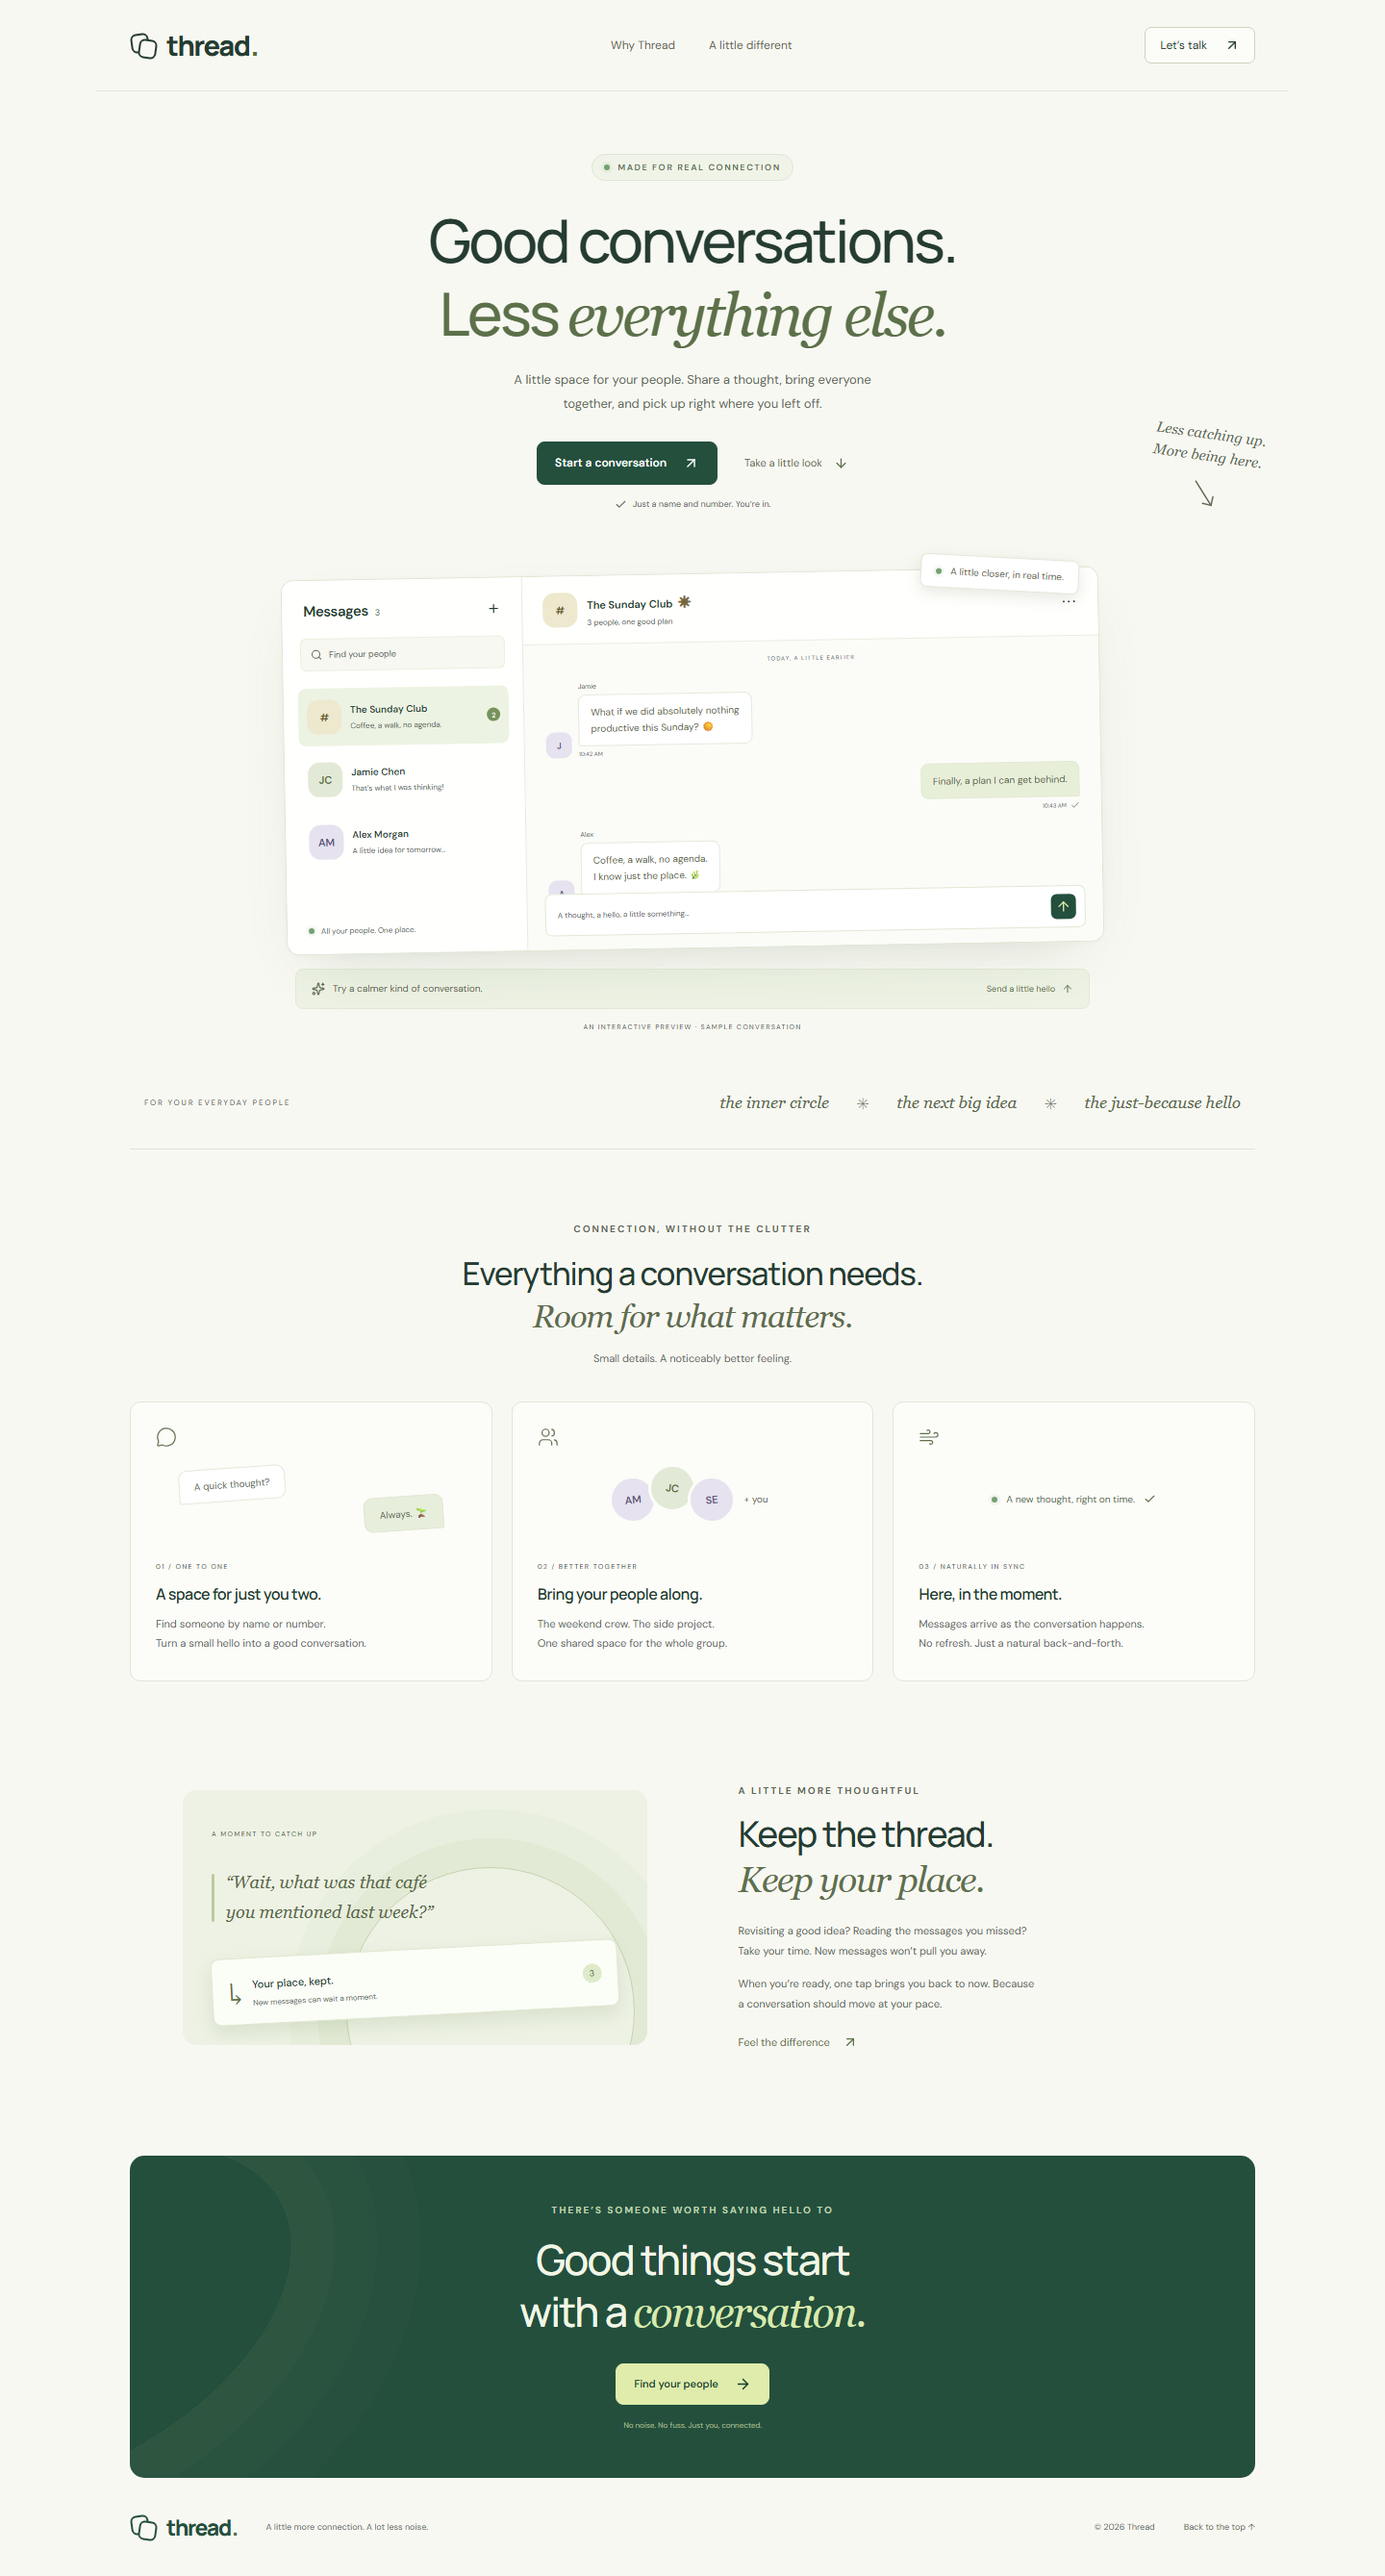
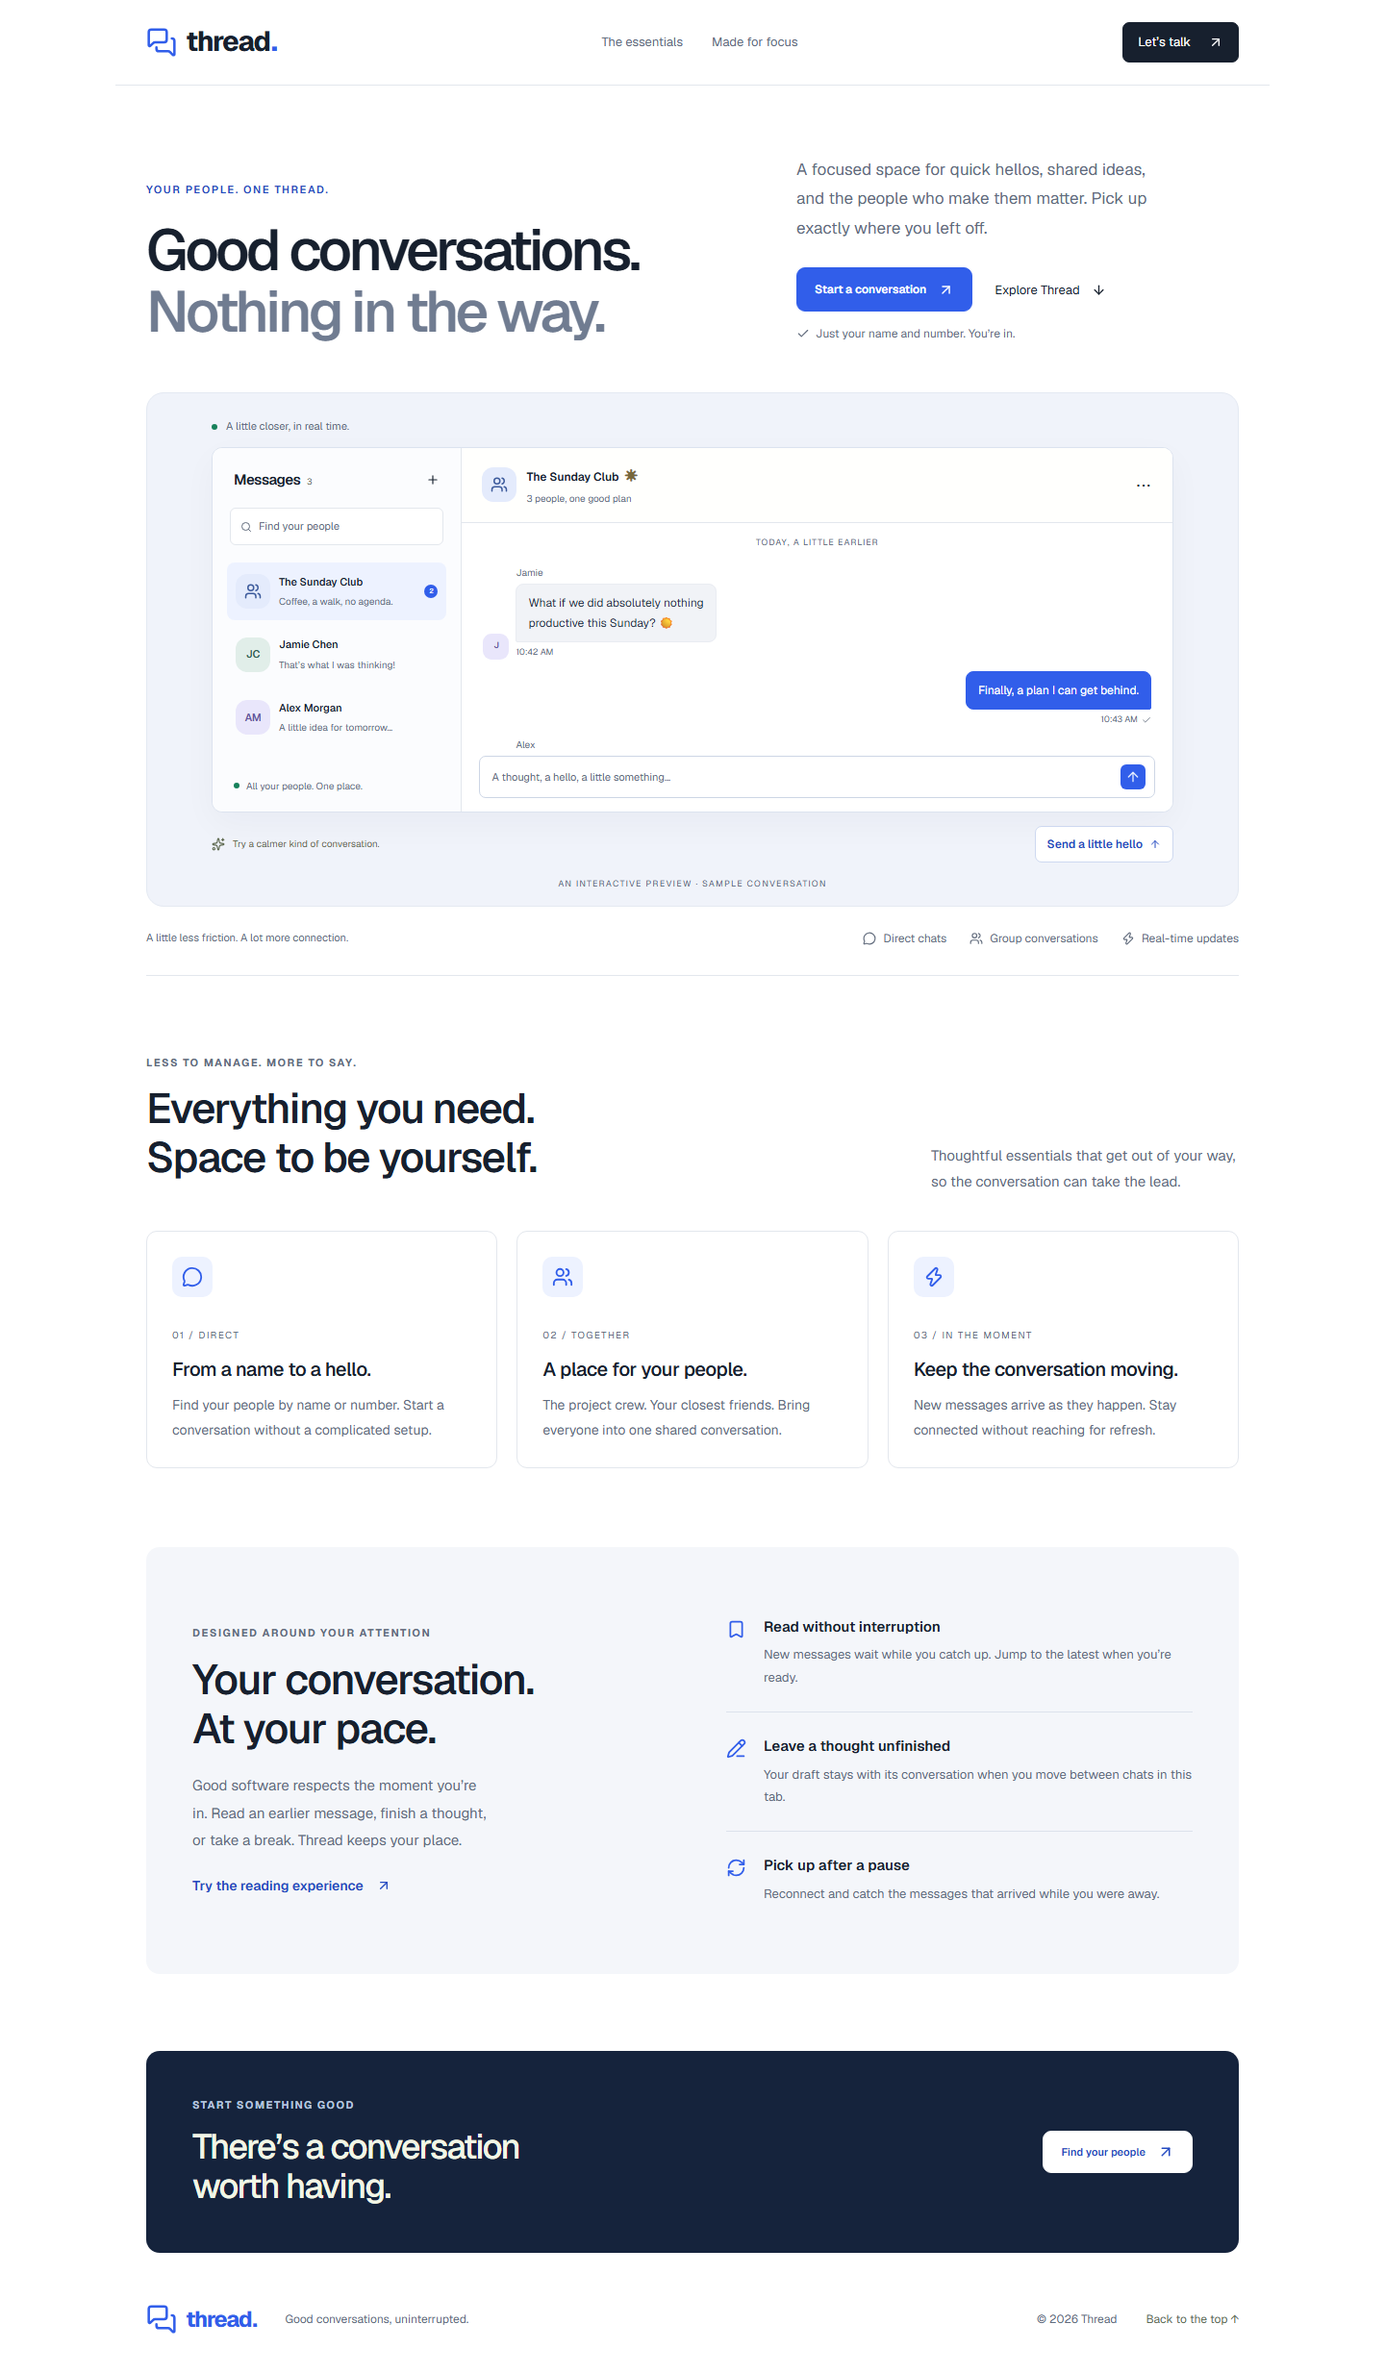
test(ui): guard mobile preview bounds and document visual QA

diff --git a/tests/experience.spec.ts b/tests/experience.spec.ts
@@ -25,6 +25,23 @@ test('mobile landing and login fit the viewport and have no serious accessibilit
     expect(
       await page.evaluate(() => document.documentElement.scrollWidth <= window.innerWidth),
     ).toBe(true);
+    if (path === '/') {
+      // An overflow-hidden parent can conceal a broken preview without making
+      // the document wider. Check the actual content and interactive control.
+      for (const target of [
+        page.getByLabel('Interactive chat preview'),
+        page.getByRole('button', { name: 'Send a little hello' }),
+      ]) {
+        const bounds = await target.boundingBox();
+        expect(bounds).not.toBeNull();
+        expect(bounds!.x).toBeGreaterThanOrEqual(0);
+        expect(bounds!.x + bounds!.width).toBeLessThanOrEqual(390);
+      }
+      await page.getByRole('button', { name: 'Send a little hello' }).click();
+      await page.getByRole('button', { name: '1 new message' }).click();
+      await expect(page.getByText('Count me in. Same corner café?')).toBeInViewport();
+      await page.getByRole('button', { name: 'Reset preview' }).click();
+    }
     const audit = await new AxeBuilder({ page })
       .withTags(['wcag2a', 'wcag2aa', 'wcag21aa'])
       .analyze();

diff --git a/docs/design-refinement.md b/docs/design-refinement.md
@@ -1,0 +1,33 @@
+# Thread: UI refinement
+
+The redesign keeps the real API, routes, authentication and chat behavior. It changes visual hierarchy and interaction clarity across landing, login, workspace and conversation picker.
+
+## Direction and references
+
+Reviewed current first-party references on 7 September 2026:
+
+- [Linear's March 2026 interface refresh](https://linear.app/now/behind-the-latest-design-refresh): reduce competing navigation emphasis and make controls more consistent.
+- [Vercel Geist typography](https://vercel.com/geist/typography): establish distinct heading, body, label and secondary-text sizes.
+
+These inform principles, not a claim that one palette is universally fashionable. Thread uses white/ink surfaces, a restrained blue accent and Geist typography. No external product is copied pixel-for-pixel.
+
+## Changes by surface
+
+1. **Landing:** an asymmetric headline/introduction, larger product preview, concise feature cards and an attention-focused section. The sample chat remains explicitly labeled and interactive. Removed ornamental mock graphics; use library icons and the actual sample component.
+2. **Login:** clearer hierarchy, larger fields and helper text, a quieter navy brand panel, and expandable guidance for existing account identifiers. The phone identity fix and demo disclosure remain intact.
+3. **Chat:** neutral navigation, clearer selected conversations/filters, stronger sent/received distinction, larger timestamps and message text, more usable controls, and a cleaner composer. Mobile input text is 16px; the send control is 44px and respects bottom safe-area spacing.
+4. **Conversation picker:** larger labels/results, consistent surfaces and explicit pressed states for mode and participant selection. Existing focus restoration and native dialog behavior remain.
+
+The visual system is applied in `src/app/refinement.css` after the existing feature/layout stylesheet. This keeps established responsive visibility and scrolling behavior intact; subsequent changes should keep shared visual rules in this layer rather than scatter new overrides across components.
+
+## Verification
+
+- In-app browser inspection of the existing landing, login and workspace before implementation, followed by desktop/mobile review of the revised surfaces and the account-help disclosure.
+- Eight unit tests and all thirteen browser tests passed after the main redesign, including real direct/group chat, pagination, scroll anchoring, reconnect and phone identity regression coverage.
+- Final landing sizing adjustments were followed by a fresh three-test experience run, including mobile axe checks and the interactive preview.
+- Visual review found that a clipped preview could pass the old document-width check. The test now checks the actual preview/button bounds and exercises the preview at mobile width; sizing was corrected before delivery.
+- Lint, route types and production build passed during the implementation pass. CI verifies the committed state.
+
+Screenshots in `docs/screenshots/` show the revised landing and login. Chat screenshots from the live test are kept in ignored local test output because they contain synthetic test-session content. Desktop browser and mobile viewport checks do not replace a full real-device, screen-reader or cross-browser audit.
+
+The supplied backend's known phone-search limitation is unchanged and remains in [backend issue notes](backend-issues.md).

diff --git a/README.md b/README.md
@@ -103,7 +103,7 @@ The scroll implementation anchors a visible message row when earlier history is 
 
 ### Design reasoning
 
-Thread uses warm off-white, forest green and a restrained lime accent to create a calm conversation space. Typography and spacing carry the hierarchy; decoration stays outside the working chat panel. On mobile, the list and conversation become separate views to protect reading space.
+Thread uses white/ink surfaces, a restrained blue accent and Geist typography. The conversation carries the strongest contrast; navigation recedes, timestamps remain readable, and mobile inputs/buttons have more comfortable sizing. On mobile, the list and conversation become separate views to protect reading space. The [design refinement notes](docs/design-refinement.md) explain the current references, changes and visual QA.
 
 The landing page demonstrates a specific interaction rather than relying on generic feature claims: a new message waits while the visitor is reading. It is clearly labeled as a sample conversation. There are no fabricated testimonials or usage statistics. Contrast and keyboard behavior were adjusted after automated accessibility checks.
 
